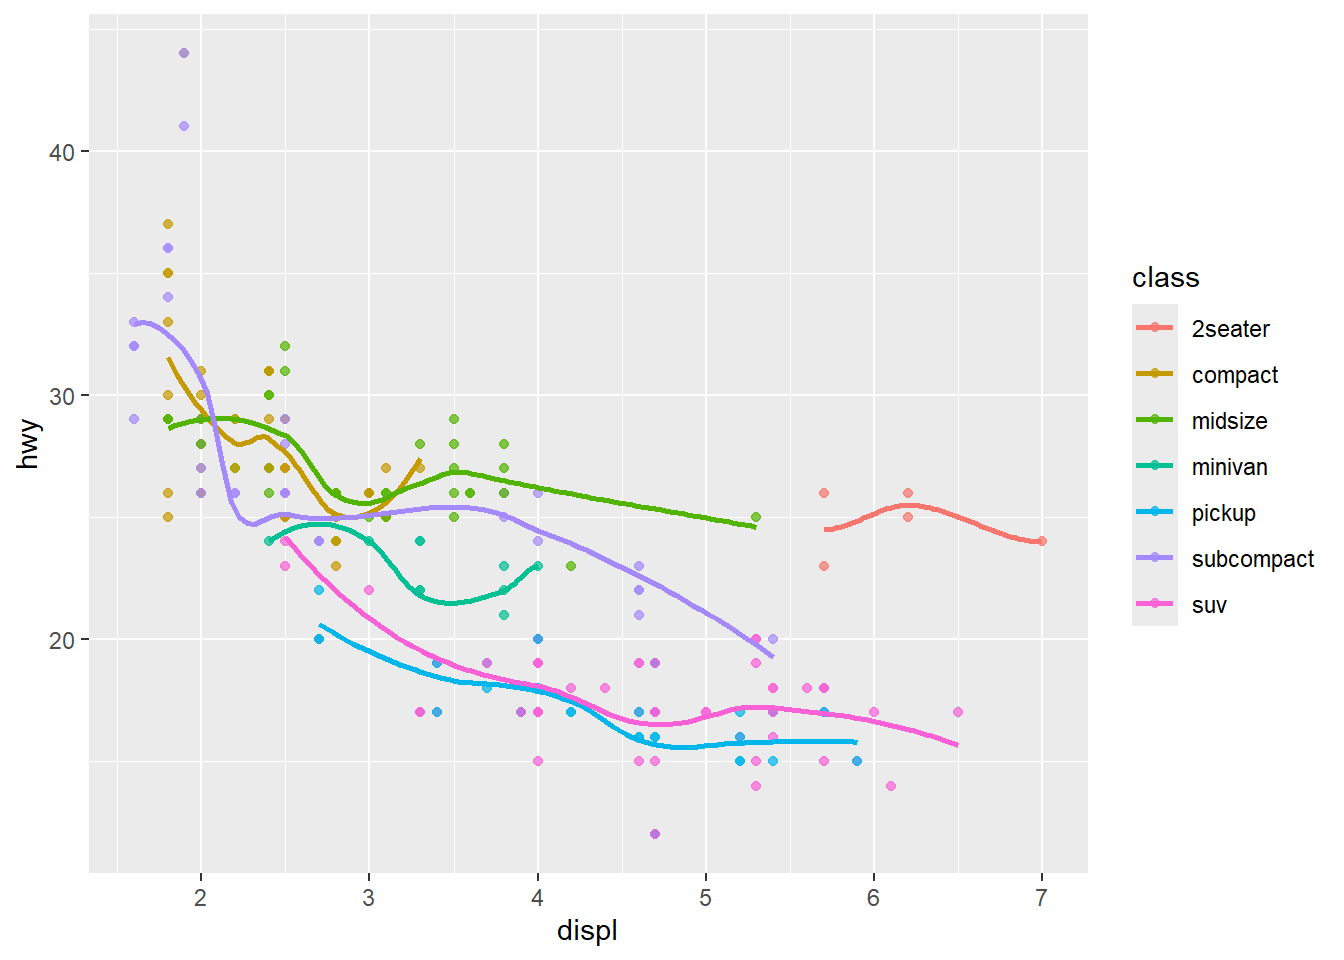
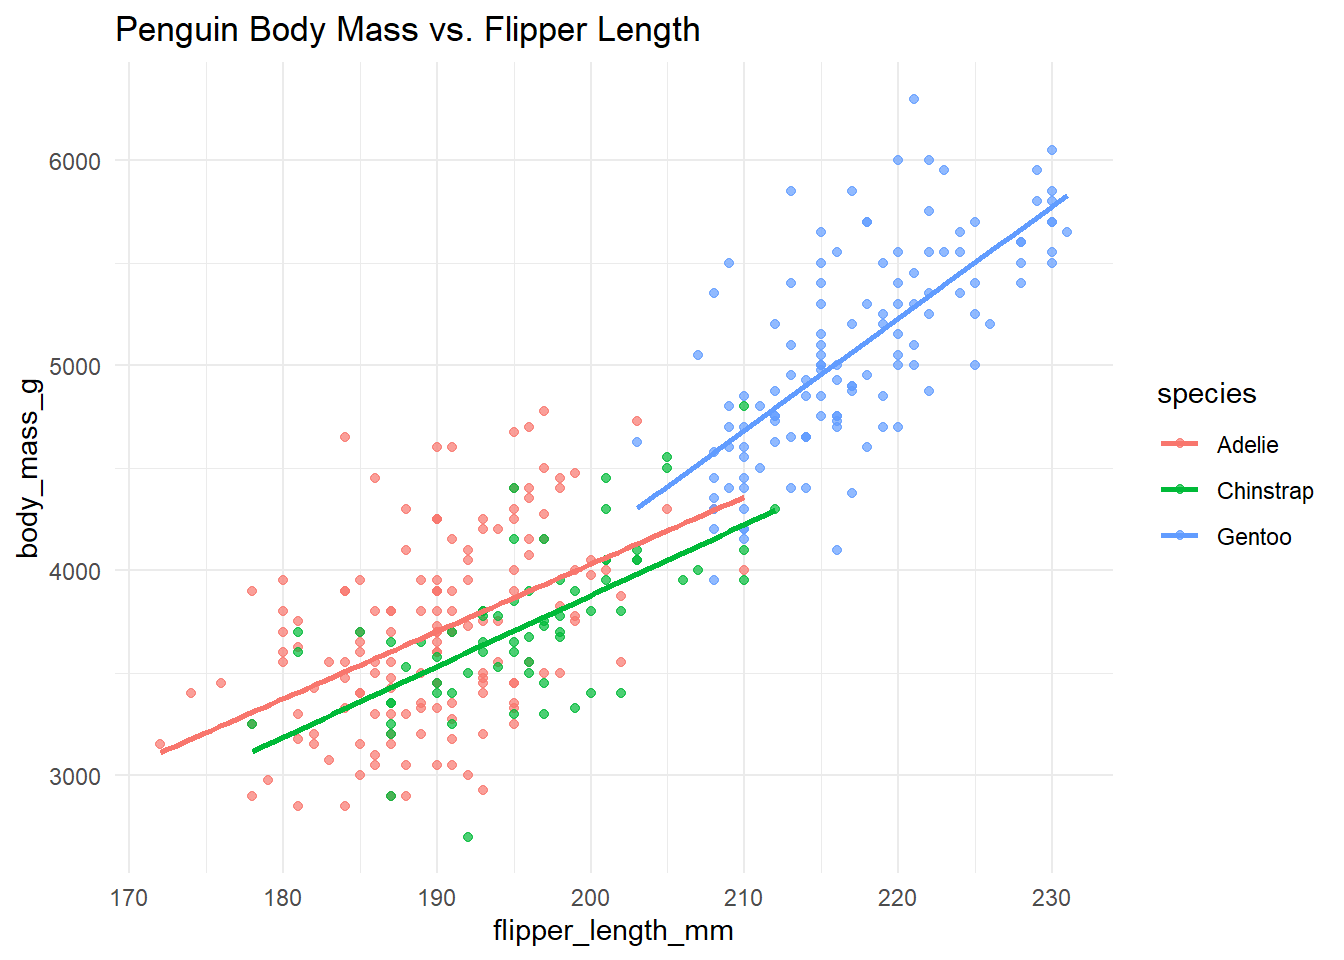
Add files via upload

diff --git a/docs/assignment-1.html b/docs/assignment-1.html
@@ -356,61 +356,78 @@ fitting a simple model.</p>
 <h1>Data &amp; methods</h1>
 <p>We use the built-in <code>mpg</code> dataset from
 <strong>ggplot2</strong>.</p>
-<pre class="r"><code>library(ggplot2)
-summary(mpg)</code></pre>
-<pre><code>##  manufacturer          model               displ            year     
-##  Length:234         Length:234         Min.   :1.600   Min.   :1999  
-##  Class :character   Class :character   1st Qu.:2.400   1st Qu.:1999  
-##  Mode  :character   Mode  :character   Median :3.300   Median :2004  
-##                                        Mean   :3.472   Mean   :2004  
-##                                        3rd Qu.:4.600   3rd Qu.:2008  
-##                                        Max.   :7.000   Max.   :2008  
-##       cyl           trans               drv                 cty       
-##  Min.   :4.000   Length:234         Length:234         Min.   : 9.00  
-##  1st Qu.:4.000   Class :character   Class :character   1st Qu.:14.00  
-##  Median :6.000   Mode  :character   Mode  :character   Median :17.00  
-##  Mean   :5.889                                         Mean   :16.86  
-##  3rd Qu.:8.000                                         3rd Qu.:19.00  
-##  Max.   :8.000                                         Max.   :35.00  
-##       hwy             fl               class          
-##  Min.   :12.00   Length:234         Length:234        
-##  1st Qu.:18.00   Class :character   Class :character  
-##  Median :24.00   Mode  :character   Mode  :character  
-##  Mean   :23.44                                        
-##  3rd Qu.:27.00                                        
-##  Max.   :44.00</code></pre>
+<pre class="r"><code>options(repos = &quot;https://cran.rstudio.com/&quot;)
+install.packages(&quot;palmerpenguins&quot;)</code></pre>
+<pre><code>## package &#39;palmerpenguins&#39; successfully unpacked and MD5 sums checked
+## 
+## The downloaded binary packages are in
+##  C:\Users\jmerc\AppData\Local\Temp\RtmpyOVfnZ\downloaded_packages</code></pre>
+<pre class="r"><code>library(palmerpenguins)
+data &lt;- penguins
+str(data)</code></pre>
+<pre><code>## tibble [344 × 8] (S3: tbl_df/tbl/data.frame)
+##  $ species          : Factor w/ 3 levels &quot;Adelie&quot;,&quot;Chinstrap&quot;,..: 1 1 1 1 1 1 1 1 1 1 ...
+##  $ island           : Factor w/ 3 levels &quot;Biscoe&quot;,&quot;Dream&quot;,..: 3 3 3 3 3 3 3 3 3 3 ...
+##  $ bill_length_mm   : num [1:344] 39.1 39.5 40.3 NA 36.7 39.3 38.9 39.2 34.1 42 ...
+##  $ bill_depth_mm    : num [1:344] 18.7 17.4 18 NA 19.3 20.6 17.8 19.6 18.1 20.2 ...
+##  $ flipper_length_mm: int [1:344] 181 186 195 NA 193 190 181 195 193 190 ...
+##  $ body_mass_g      : int [1:344] 3750 3800 3250 NA 3450 3650 3625 4675 3475 4250 ...
+##  $ sex              : Factor w/ 2 levels &quot;female&quot;,&quot;male&quot;: 2 1 1 NA 1 2 1 2 NA NA ...
+##  $ year             : int [1:344] 2007 2007 2007 2007 2007 2007 2007 2007 2007 2007 ...</code></pre>
+<pre class="r"><code>summary(data)</code></pre>
+<pre><code>##       species          island    bill_length_mm  bill_depth_mm  
+##  Adelie   :152   Biscoe   :168   Min.   :32.10   Min.   :13.10  
+##  Chinstrap: 68   Dream    :124   1st Qu.:39.23   1st Qu.:15.60  
+##  Gentoo   :124   Torgersen: 52   Median :44.45   Median :17.30  
+##                                  Mean   :43.92   Mean   :17.15  
+##                                  3rd Qu.:48.50   3rd Qu.:18.70  
+##                                  Max.   :59.60   Max.   :21.50  
+##                                  NA&#39;s   :2       NA&#39;s   :2      
+##  flipper_length_mm  body_mass_g       sex           year     
+##  Min.   :172.0     Min.   :2700   female:165   Min.   :2007  
+##  1st Qu.:190.0     1st Qu.:3550   male  :168   1st Qu.:2007  
+##  Median :197.0     Median :4050   NA&#39;s  : 11   Median :2008  
+##  Mean   :200.9     Mean   :4202                Mean   :2008  
+##  3rd Qu.:213.0     3rd Qu.:4750                3rd Qu.:2009  
+##  Max.   :231.0     Max.   :6300                Max.   :2009  
+##  NA&#39;s   :2         NA&#39;s   :2</code></pre>
+<pre class="r"><code>library(ggplot2)</code></pre>
 </div>
 <div id="visualization" class="section level1">
 <h1>Visualization</h1>
-<pre class="r"><code>p &lt;- ggplot(mpg, aes(displ, hwy, color = class)) +
+<pre class="r"><code>p &lt;- ggplot(data, aes(x = flipper_length_mm, y = body_mass_g, color = species)) +
   geom_point(alpha = 0.7) +
-  geom_smooth(method = &quot;loess&quot;, se = FALSE)
+  geom_smooth(method = &quot;lm&quot;, se = FALSE) +
+  theme_minimal() +
+  labs(title = &quot;Penguin Body Mass vs. Flipper Length&quot;)
 p</code></pre>
 <p><img src="assignment-1_files/figure-html/unnamed-chunk-2-1.png" width="672" /></p>
 </div>
 <div id="small-analysis" class="section level1">
 <h1>Small analysis</h1>
-<pre class="r"><code>m &lt;- lm(hwy ~ displ + cyl, data = mpg)
+<pre class="r"><code>m &lt;- lm(body_mass_g ~ flipper_length_mm + species, data = data)
 summary(m)</code></pre>
 <pre><code>## 
 ## Call:
-## lm(formula = hwy ~ displ + cyl, data = mpg)
+## lm(formula = body_mass_g ~ flipper_length_mm + species, data = data)
 ## 
 ## Residuals:
 ##     Min      1Q  Median      3Q     Max 
-## -7.5098 -2.1953 -0.2049  1.9023 14.9223 
+## -927.70 -254.82  -23.92  241.16 1191.68 
 ## 
 ## Coefficients:
-##             Estimate Std. Error t value Pr(&gt;|t|)    
-## (Intercept)  38.2162     1.0481  36.461  &lt; 2e-16 ***
-## displ        -1.9599     0.5194  -3.773 0.000205 ***
-## cyl          -1.3537     0.4164  -3.251 0.001323 ** 
+##                    Estimate Std. Error t value Pr(&gt;|t|)    
+## (Intercept)       -4031.477    584.151  -6.901 2.55e-11 ***
+## flipper_length_mm    40.705      3.071  13.255  &lt; 2e-16 ***
+## speciesChinstrap   -206.510     57.731  -3.577 0.000398 ***
+## speciesGentoo       266.810     95.264   2.801 0.005392 ** 
 ## ---
 ## Signif. codes:  0 &#39;***&#39; 0.001 &#39;**&#39; 0.01 &#39;*&#39; 0.05 &#39;.&#39; 0.1 &#39; &#39; 1
 ## 
-## Residual standard error: 3.759 on 231 degrees of freedom
-## Multiple R-squared:  0.6049, Adjusted R-squared:  0.6014 
-## F-statistic: 176.8 on 2 and 231 DF,  p-value: &lt; 2.2e-16</code></pre>
+## Residual standard error: 375.5 on 338 degrees of freedom
+##   (2 observations deleted due to missingness)
+## Multiple R-squared:  0.7826, Adjusted R-squared:  0.7807 
+## F-statistic: 405.7 on 3 and 338 DF,  p-value: &lt; 2.2e-16</code></pre>
 </div>
 <div id="reflection" class="section level1">
 <h1>Reflection</h1>
